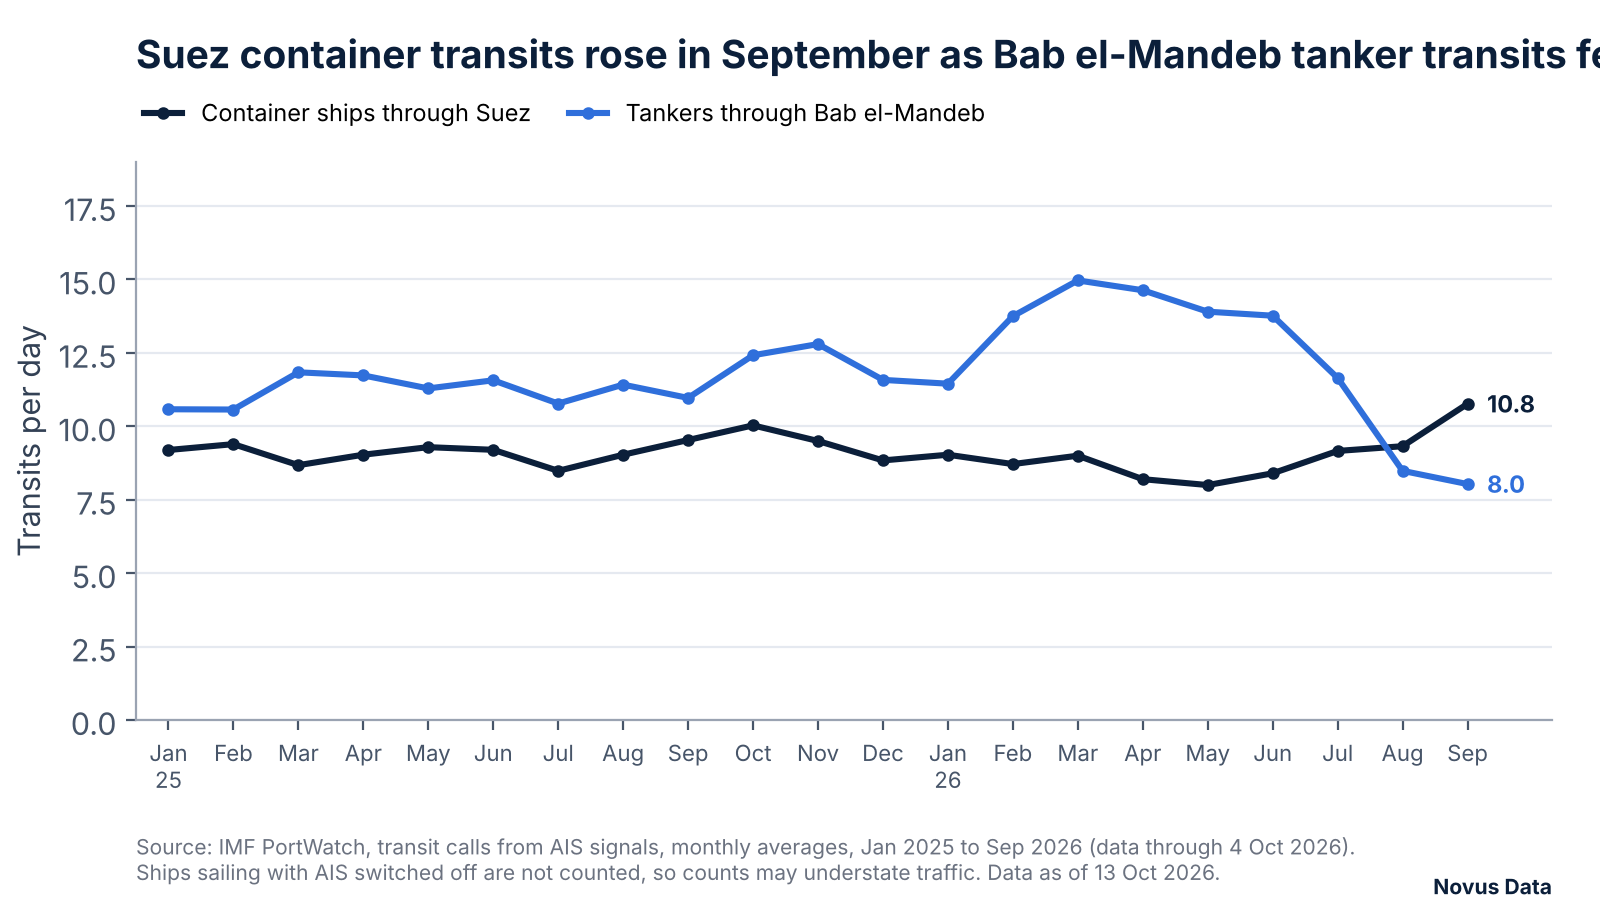
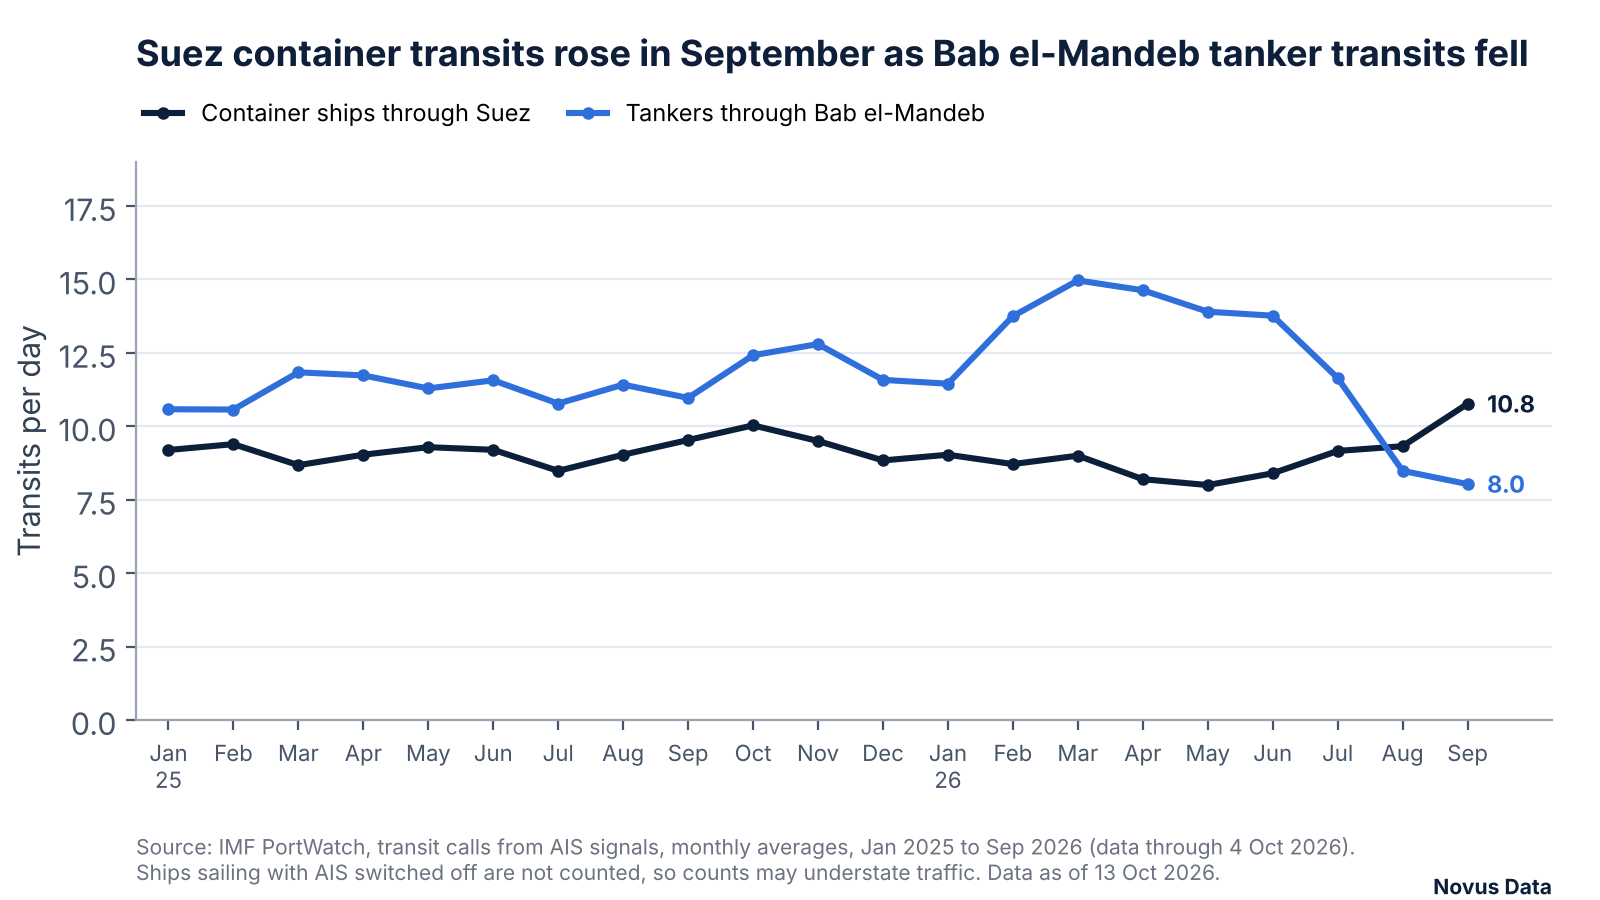
content: official sources for the G20 and strike dates, and fix the 0010 chart title
Gavin asked for these fixes to be made here.

- G20 summit date (0012, 0007): the CBS AMP link opened an unrelated
  story and La Voce di New York was a secondary report. Both now cite
  the State Department's 18 December 2025 media note, which gives
  14-15 December 2026 at Trump National Doral Miami.
- Start of the strikes on Iran (0005, 0006): the Dawn link opened the
  e-paper front page. Now the President's 2 March 2026 War Powers
  letter (House Document 119-139, "military action taken on February
  28, 2026"), with Daily Maverick's 28 February report for Israel's
  part, which the letter does not state.
- c10_lanes.png: the title ran past the right edge. Re-set in the
  chart's own face (Inter Bold) at 36px so the full title fits. The
  data area is untouched.

Claude-Session: https://claude.ai/code/session_01EukYAgbFuoPqY9p2KCEsaa

Changed region(s): [[0.0938, 0.0311, 1.0, 0.0933]]

diff --git a/content/issues/0012-thirteen-dates-trade-costs-january-2027.md b/content/issues/0012-thirteen-dates-trade-costs-january-2027.md
@@ -15,7 +15,7 @@ tags:
 <h2>What is scheduled</h2>
 <p>The US government is funded only until 11 December 2026, under a stopgap bill the president <a href="https://www.whitehouse.gov/briefings-statements/2026/09/congressional-bill-h-r-6500/" rel="noopener noreferrer" target="_blank">signed on 2 September</a>. The Federal Reserve meets on 27–28 October and 8–9 December, according to its <a href="https://www.federalreserve.gov/monetarypolicy/fomccalendars.htm" rel="noopener noreferrer" target="_blank">calendar</a>, after <a href="https://www.federalreserve.gov/monetarypolicy/fomcminutes20260916.htm" rel="noopener noreferrer" target="_blank">minutes</a> showed most officials judged another rate rise likely to be appropriate by the end of the year. September consumer prices are due at 8:30 a.m. Eastern on 14 October. US midterm elections are on 3 November, according to the <a href="https://www.fec.gov/documents/5910/2026pdates.pdf" rel="noopener noreferrer" target="_blank">Federal Election Commission</a>.</p>
 <p>Trade deadlines cluster after the election. The 178 remaining exclusions from Section 301 tariffs on Chinese goods expire at 11:59 p.m. Eastern time on 9 November, according to a <a href="https://www.federalregister.gov/documents/2025/12/01/2025-21671/notice-of-product-exclusion-extensions-chinas-acts-policies-and-practices-related-to-technology" rel="noopener noreferrer" target="_blank">USTR notice</a>. The suspension of US port fees under the Section 301 action on China's maritime and shipbuilding sectors runs through the same date, according to a <a href="https://www.federalregister.gov/documents/2025/11/13/2025-19873/notice-of-modification-of-section-301-action-china-targeted-by-the-united-states-in-its-maritime-logistics-and-shipbuilding-sectors" rel="noopener noreferrer" target="_blank">Federal Register notice</a>. Fees would apply again from 10 November unless USTR issues another modification, <a href="https://www.freightwaves.com/?p=581773" rel="noopener noreferrer" target="_blank">FreightWaves reported</a> on 28 September. Treasury Secretary Scott Bessent said on 23 September that the conditions of the US-China truce would stay in effect until 10 January 2027, <a href="https://www.supplychaindive.com/news/us-china-to-extend-trade-war-truce-by-2-months/831251/" rel="noopener noreferrer" target="_blank">Supply Chain Dive reported</a>, adding that the White House had yet to document the extension. USTR had published no notice extending the exclusions or the port-fee suspension by 13 October. China's one-year suspension of its ban on exports to the US of dual-use items related to gallium, germanium and antimony runs until 27 November 2026, according to <a href="https://www.china-briefing.com/news/trump-xi-meeting-outcomes-and-implications/" rel="noopener noreferrer" target="_blank">China Briefing</a>, which published that date in November 2025. Whether that suspension was extended with the wider truce had not been reported by 13 October in the sources reviewed.</p>
-<p>Two summits fall in the same stretch. The 33rd <a href="https://www.lg.gov.cn/english/news/latestnews/content/post_12588327.html" rel="noopener noreferrer" target="_blank">APEC Economic Leaders' Meeting</a> is scheduled for Shenzhen on 18–19 November. The G20 leaders' summit is <a href="https://www.cbsnews.com/amp/miami/news/trump-g20-summit-2026-doral-resort-florida" rel="noopener noreferrer" target="_blank">scheduled for 14–15 December</a> at Trump Doral, the president's resort in Doral, Florida, according to a CBS News report from September 2025.</p>
+<p>Two summits fall in the same stretch. The 33rd <a href="https://www.lg.gov.cn/english/news/latestnews/content/post_12588327.html" rel="noopener noreferrer" target="_blank">APEC Economic Leaders' Meeting</a> is scheduled for Shenzhen on 18–19 November. The G20 leaders' summit is <a href="https://www.state.gov/releases/2025/12/united-states-hosts-first-g20-sherpa-meeting" rel="noopener noreferrer" target="_blank">scheduled for 14–15 December</a> at Trump National Doral Miami, the president's resort in Doral, Florida, according to the State Department.</p>
 <p>Three other dates matter for specific trades. Seven OPEC+ members, who met on 4 October and kept required production for November at the September level, <a href="https://www.opec.org/pr-detail/616-4-october-2026.html" rel="noopener noreferrer" target="_blank">meet again on 1 November</a>. USTR is taking public comments on the operation of the USMCA, the trade agreement between the United States, Mexico and Canada, <a href="https://www.federalregister.gov/documents/2026/10/05/2026-20341/request-for-public-comments-and-notice-of-public-hearing-relating-to-the-operation-of-the-agreement" rel="noopener noreferrer" target="_blank">until 12 January 2027</a>. In Brazil, a presidential runoff on 25 October between President Luiz Inácio Lula da Silva and Senator Flávio Bolsonaro will decide who handles the dispute over the <a href="https://www.federalregister.gov/documents/2026/07/20/2026-14542/notice-of-action-brazils-acts-policies-and-practices-related-to-digital-trade-and-electronic-payment" rel="noopener noreferrer" target="_blank">25% US duty on Brazilian goods, which carries exemptions,</a>, in force since 22 July. Mr Bolsonaro led the first round with about 47% to Mr Lula's 45%, <a href="https://www.wunc.org/2026-10-04/brazils-presidential-race-heads-to-lula-bolsonaro-run-off-as-right-gains-ground" rel="noopener noreferrer" target="_blank">according to NPR</a>.</p>
 <figure><img src="/article-charts/thirteen-dates-trade-costs-january-2027/c12_timeline.png" alt="Calendar of thirteen dates from 14 October 2026 to 12 January 2027, from US consumer prices on 14 October to USMCA public comments due on 12 January, with six dates falling between 9 November and 15 December." width="1900" height="1120" loading="lazy" decoding="async" /><figcaption>Thirteen dates from 14 October 2026 to 12 January 2027. Sources listed in the article.</figcaption></figure>
 <h2>Why it matters</h2>
@@ -43,7 +43,7 @@ tags:
 <li>US-China to extend trade war truce by 2 months. Supply Chain Dive, 24 September 2026. <a href="https://www.supplychaindive.com/news/us-china-to-extend-trade-war-truce-by-2-months/831251/" rel="noopener noreferrer" target="_blank">link</a></li>
 <li>Trump-Xi meeting outcomes. China Briefing, 10 November 2025. <a href="https://www.china-briefing.com/news/trump-xi-meeting-outcomes-and-implications/" rel="noopener noreferrer" target="_blank">link</a></li>
 <li>33rd APEC Economic Leaders' Meeting, Shenzhen, 18–19 November 2026. Shenzhen Longgang government. <a href="https://www.lg.gov.cn/english/news/latestnews/content/post_12588327.html" rel="noopener noreferrer" target="_blank">link</a></li>
-<li>Trump announces plans to host 2026 G20 summit at his Doral resort. CBS News, 5 September 2025. <a href="https://www.cbsnews.com/amp/miami/news/trump-g20-summit-2026-doral-resort-florida" rel="noopener noreferrer" target="_blank">link</a></li>
+<li>United States Hosts First G20 Sherpa Meeting. US Department of State, 18 December 2025. <a href="https://www.state.gov/releases/2025/12/united-states-hosts-first-g20-sherpa-meeting" rel="noopener noreferrer" target="_blank">link</a></li>
 <li>OPEC+ press release. OPEC, 4 October 2026. <a href="https://www.opec.org/pr-detail/616-4-october-2026.html" rel="noopener noreferrer" target="_blank">link</a></li>
 <li>Request for Public Comments and Notice of Public Hearing Relating to the Operation of the USMCA. USTR, Federal Register, 5 October 2026. <a href="https://www.federalregister.gov/documents/2026/10/05/2026-20341/request-for-public-comments-and-notice-of-public-hearing-relating-to-the-operation-of-the-agreement" rel="noopener noreferrer" target="_blank">link</a></li>
 <li>Notice of Action: Brazil's Acts, Policies and Practices. USTR, Federal Register, 20 July 2026. <a href="https://www.federalregister.gov/documents/2026/07/20/2026-14542/notice-of-action-brazils-acts-policies-and-practices-related-to-digital-trade-and-electronic-payment" rel="noopener noreferrer" target="_blank">link</a></li>

diff --git a/content/issues/0005-fed-raises-rates-first-time-since-2023.md b/content/issues/0005-fed-raises-rates-first-time-since-2023.md
@@ -17,7 +17,7 @@ tags:
 <p>The statement said inflation "remains elevated" and that uncertainty remained elevated owing, in part, to geopolitical developments. It did not mention energy or the Middle East by name. At his <a href="https://www.federalreserve.gov/mediacenter/files/FOMCpresconf20260916.pdf" rel="noopener noreferrer" target="_blank">press conference</a>, Fed Chairman Kevin Warsh said "We cannot affect any individual price, whether it be oil prices", and that the Fed would ensure that changes in relative prices do not "broaden out" into second- and third-order effects in the economy.</p>
 <p>The <a href="https://www.federalreserve.gov/monetarypolicy/fomcminutes20260916.htm" rel="noopener noreferrer" target="_blank">minutes</a>, published on 7 October, said most participants judged that another increase "would likely be appropriate by year end", and that participants generally assessed inflation risk as skewed to the upside. In the <a href="https://www.federalreserve.gov/monetarypolicy/fomcprojtabl20260916.htm" rel="noopener noreferrer" target="_blank">Summary of Economic Projections</a>, the median official expected personal consumption expenditures (PCE) inflation of 3.7% in 2026, measured fourth quarter on fourth quarter, and a year-end policy rate of 4.1%, the midpoint of the range. That implies one more quarter-point increase this year (inferred).</p>
 <h2>Why it matters</h2>
-<p>Market borrowing costs have risen much more than the policy rate. The 10-year Treasury yield was 5.24% on 9 October 2026, against 3.97% on 27 February, according to <a href="https://home.treasury.gov/resource-center/data-chart-center/interest-rates/TextView?type=daily_treasury_yield_curve&amp;field_tdr_date_value_month=202610" rel="noopener noreferrer" target="_blank">US Treasury data</a>. That February date was the last trading day before the US and Israeli strikes on Iran, which began on 28 February, <a href="https://www.dawn.com/news/1976395/we-have-more-than-anyone-in-the-world-trump-denies-reports-us-running-out-of-munitions" rel="noopener noreferrer" target="_blank">Dawn reported</a>. The 2-year yield rose from 3.38% to 4.80% over the same dates. The average 30-year fixed mortgage rate was 7.40% on 8 October, against 5.98% on 26 February, according to <a href="https://www.freddiemac.com/pmms" rel="noopener noreferrer" target="_blank">Freddie Mac's weekly survey</a>.</p>
+<p>Market borrowing costs have risen much more than the policy rate. The 10-year Treasury yield was 5.24% on 9 October 2026, against 3.97% on 27 February, according to <a href="https://home.treasury.gov/resource-center/data-chart-center/interest-rates/TextView?type=daily_treasury_yield_curve&amp;field_tdr_date_value_month=202610" rel="noopener noreferrer" target="_blank">US Treasury data</a>. That February date was the last trading day before the US and Israeli strikes on Iran, which began on 28 February, according to the <a href="https://www.govinfo.gov/content/pkg/CDOC-119hdoc139/pdf/CDOC-119hdoc139.pdf" rel="noopener noreferrer" target="_blank">President's 2 March letter to Congress</a> and <a href="https://www.dailymaverick.co.za/article/2026-02-28-israel-and-us-launch-strikes-on-iran/" rel="noopener noreferrer" target="_blank">Daily Maverick</a>. The 2-year yield rose from 3.38% to 4.80% over the same dates. The average 30-year fixed mortgage rate was 7.40% on 8 October, against 5.98% on 26 February, according to <a href="https://www.freddiemac.com/pmms" rel="noopener noreferrer" target="_blank">Freddie Mac's weekly survey</a>.</p>
 <figure><img src="/article-charts/fed-raises-rates-first-time-since-2023/c05_policy_vs_yields.png" alt="Line chart of the 2-year and 10-year Treasury yields from January to 9 October 2026 against the Fed's target range. Both yields rose well above the 3.50% to 3.75% range, which moved up to 3.75% to 4.00% on 16 September." width="1600" height="900" loading="lazy" decoding="async" /><figcaption>Treasury yields against the Fed target range, 2026. Source: US Treasury; Federal Reserve.</figcaption></figure>
 <p>Investors do not appear to expect inflation to stay high for long. The 10-year breakeven inflation rate, the gap between the 10-year Treasury yield and the 10-year inflation-protected (TIPS) yield, was 2.33% on 9 October, little changed from 2.25% on 27 February. The 10-year real yield, the TIPS yield, rose from 1.72% to 2.91%, so 1.19 of the 1.27 percentage points added to the nominal yield came from higher real rates. Mr Warsh said the Committee aims to ensure that "inflation compensation in market prices stays low", and the breakeven is that kind of measure.</p>
 <figure><img src="/article-charts/fed-raises-rates-first-time-since-2023/c05_real_vs_breakeven.png" alt="Stacked area chart splitting the 10-year Treasury yield into its real yield and breakeven inflation from January to 9 October 2026. The real yield rose from 1.72% on 27 February to 2.91%, while breakeven inflation moved from 2.25% to 2.33%." width="1600" height="900" loading="lazy" decoding="async" /><figcaption>The 10-year Treasury yield split into real yield and breakeven inflation, 2026. Source: US Treasury.</figcaption></figure>
@@ -46,6 +46,7 @@ tags:
 <li>Consumer Price Index, August 2026. BLS, 11 September 2026. <a href="https://www.bls.gov/news.release/archives/cpi_09112026.htm" rel="noopener noreferrer" target="_blank">link</a></li>
 <li>Release calendar, October 2026 (CPI on 14 October, 8:30 a.m.). BLS. <a href="https://www.bls.gov/schedule/2026/10_sched.htm" rel="noopener noreferrer" target="_blank">link</a></li>
 <li>Open market operations: history of federal funds rate changes. Federal Reserve. <a href="https://www.federalreserve.gov/monetarypolicy/openmarket.htm" rel="noopener noreferrer" target="_blank">link</a></li>
-<li>"The US and Israel on Feb 28 launched ... a joint strike against Iranian targets." Dawn, 13 October 2026. <a href="https://www.dawn.com/news/1976395/we-have-more-than-anyone-in-the-world-trump-denies-reports-us-running-out-of-munitions" rel="noopener noreferrer" target="_blank">link</a></li>
+<li>Letter to the Speaker of the House on military action taken on 28 February 2026 against Iran. The White House, 2 March 2026 (House Document 119-139). <a href="https://www.govinfo.gov/content/pkg/CDOC-119hdoc139/pdf/CDOC-119hdoc139.pdf" rel="noopener noreferrer" target="_blank">link</a></li>
+<li>Israel and US launch strikes on Iran. Daily Maverick, 28 February 2026. <a href="https://www.dailymaverick.co.za/article/2026-02-28-israel-and-us-launch-strikes-on-iran/" rel="noopener noreferrer" target="_blank">link</a></li>
 </ol>
 <p><em>Novus Data publishes analysis and commentary, not investment advice. Nothing here is a recommendation to buy or sell any security.</em></p>

diff --git a/content/issues/0007-us-china-trade-truce-extended-to-10-january-2027.md b/content/issues/0007-us-china-trade-truce-extended-to-10-january-2027.md
@@ -17,7 +17,7 @@ tags:
 <p>The Busan arrangement, which took effect on 10 November 2025, suspended several measures for a year, according to a summary by <a href="https://www.china-briefing.com/news/trump-xi-meeting-outcomes-and-implications/" rel="noopener noreferrer" target="_blank">China Briefing</a>. China's commerce ministry (MOFCOM) suspended the rare earth export controls it announced on 9 October 2025, though controls announced on 4 April 2025 stayed in force. China also suspended its ban on exports to the US of dual-use items related to gallium, germanium and antimony until 27 November 2026. The US suspended a rule extending export restrictions to companies at least 50% owned by listed entities, and both sides suspended port fees on each other's ships.</p>
 <p>At the summit, the White House announced recommendations for reciprocal tariff reductions on $30 billion of non-sensitive goods in each direction, and China committed to import at least 10 million tonnes of US coal a year in 2027 and 2028, according to the <a href="https://www.gmfus.org/news/trump-xi-summit-scorecard" rel="noopener noreferrer" target="_blank">German Marshall Fund</a> (GMF). MOFCOM said the two sides would set up a China-US trade council, with an agriculture working group meeting before the end of 2026, <a href="https://investinglive.com/news/china-and-u-s-to-set-up-trade-council-and-extend-trade-truce-to-january-2027/" rel="noopener noreferrer" target="_blank">investingLive reported</a> on 28 September.</p>
 <h2>Why it matters</h2>
-<p>The extension sets the cost of trade with China into January, not beyond. Importers placing orders for 2027 face the possibility that suspended measures return on 10 January if talks fail (inferred). Two summits fall before that date: the Asia-Pacific Economic Cooperation leaders' meeting in Shenzhen on 18 and 19 November, according to the <a href="https://www.lg.gov.cn/english/news/latestnews/content/post_12588327.html" rel="noopener noreferrer" target="_blank">Shenzhen government</a>, and the G20 leaders' summit in Doral, Florida, on 14 and 15 December, according to <a href="https://lavocedinewyork.com/en/politics-en/2026/05/19/trump-brings-the-g20-to-his-miami-resort-global-summit-set-for-the-doral/" rel="noopener noreferrer" target="_blank">La Voce di New York</a>.</p>
+<p>The extension sets the cost of trade with China into January, not beyond. Importers placing orders for 2027 face the possibility that suspended measures return on 10 January if talks fail (inferred). Two summits fall before that date: the Asia-Pacific Economic Cooperation leaders' meeting in Shenzhen on 18 and 19 November, according to the <a href="https://www.lg.gov.cn/english/news/latestnews/content/post_12588327.html" rel="noopener noreferrer" target="_blank">Shenzhen government</a>, and the G20 leaders' summit in Doral, Florida, on 14 and 15 December, according to the <a href="https://www.state.gov/releases/2025/12/united-states-hosts-first-g20-sherpa-meeting" rel="noopener noreferrer" target="_blank">State Department</a>.</p>
 <p>Trade has already shrunk. US goods imports from China were $183.5 billion in the first eight months of 2026, against $219.3 billion a year earlier and $279.2 billion in 2024, according to the <a href="https://www.census.gov/foreign-trade/balance/c5700.html" rel="noopener noreferrer" target="_blank">US Census Bureau</a>. Monthly imports have risen since the spring, from $19.8 billion in April to $27.1 billion in August.</p>
 <figure><img src="/article-charts/us-china-trade-truce-extended-to-10-january-2027/c07_imports.png" alt="Line chart of monthly US goods imports from China in 2024, 2025 and 2026. Imports in 2026 rose from $19.8 billion in April to $27.1 billion in August, above 2025 levels for the same months but below 2024." width="1600" height="900" loading="lazy" decoding="async" /><figcaption>US goods imports from China by month, 2024 to August 2026. Source: US Census Bureau.</figcaption></figure>
 <p>Assessments of the summit differ. A <a href="https://www.csis.org/analysis/takeaways-trump-xi-white-house-summit" rel="noopener noreferrer" target="_blank">CSIS analysis</a> listed rare earths, semiconductor export controls and the durability of the truce among unresolved issues. GMF called the results mixed. A writer for <a href="https://dailysignal.com/2026/10/01/trump-xi-summit-america-first" rel="noopener noreferrer" target="_blank">The Daily Signal</a>, from the Heritage Foundation's Asian Studies Center, argued that the administration protected US interests without conceding on key issues. The <a href="https://www.americanprogress.org/article/trump-xi-summit-scorecard-assessing-the-results-of-the-september-meeting/" rel="noopener noreferrer" target="_blank">Center for American Progress</a> argued that it gave up long-term bargaining power for temporary truces.</p>

diff --git a/content/issues/0006-us-hiring-slows-to-29000-fuel-inflation-outpaces-pay.md b/content/issues/0006-us-hiring-slows-to-29000-fuel-inflation-outpaces-pay.md
@@ -42,6 +42,7 @@ tags:
 <li>Transcript of Chairman Warsh's press conference. Federal Reserve, 16 September 2026. <a href="https://www.federalreserve.gov/mediacenter/files/FOMCpresconf20260916.pdf" rel="noopener noreferrer" target="_blank">link</a></li>
 <li>Employment Situation release schedule, October 2026 reference month: 6 November 2026. BLS. <a href="https://www.bls.gov/schedule/news_release/empsit.htm" rel="noopener noreferrer" target="_blank">link</a></li>
 <li>Release calendar, October 2026 (CPI on 14 October, 8:30 a.m.). BLS. <a href="https://www.bls.gov/schedule/2026/10_sched.htm" rel="noopener noreferrer" target="_blank">link</a></li>
-<li>"The US and Israel on Feb 28 launched ... a joint strike against Iranian targets." Dawn, 13 October 2026. <a href="https://www.dawn.com/news/1976395/we-have-more-than-anyone-in-the-world-trump-denies-reports-us-running-out-of-munitions" rel="noopener noreferrer" target="_blank">link</a></li>
+<li>Letter to the Speaker of the House on military action taken on 28 February 2026 against Iran. The White House, 2 March 2026 (House Document 119-139). <a href="https://www.govinfo.gov/content/pkg/CDOC-119hdoc139/pdf/CDOC-119hdoc139.pdf" rel="noopener noreferrer" target="_blank">link</a></li>
+<li>Israel and US launch strikes on Iran. Daily Maverick, 28 February 2026. <a href="https://www.dailymaverick.co.za/article/2026-02-28-israel-and-us-launch-strikes-on-iran/" rel="noopener noreferrer" target="_blank">link</a></li>
 </ol>
 <p><em>Novus Data publishes analysis and commentary, not investment advice. Nothing here is a recommendation to buy or sell any security.</em></p>
